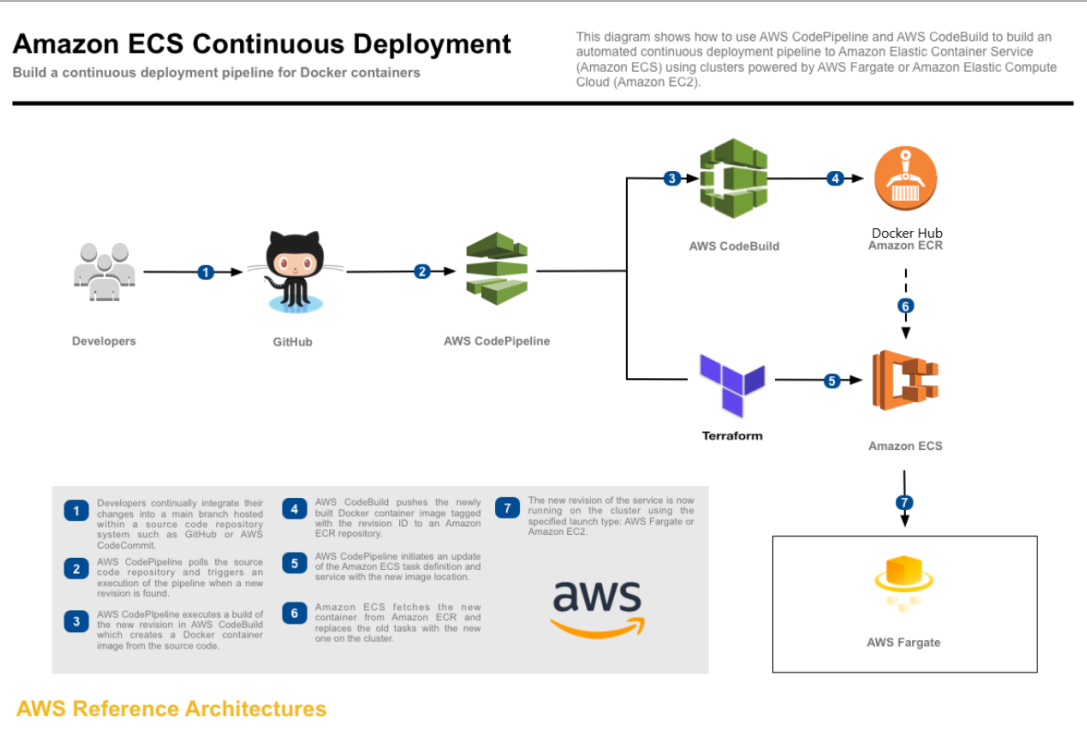
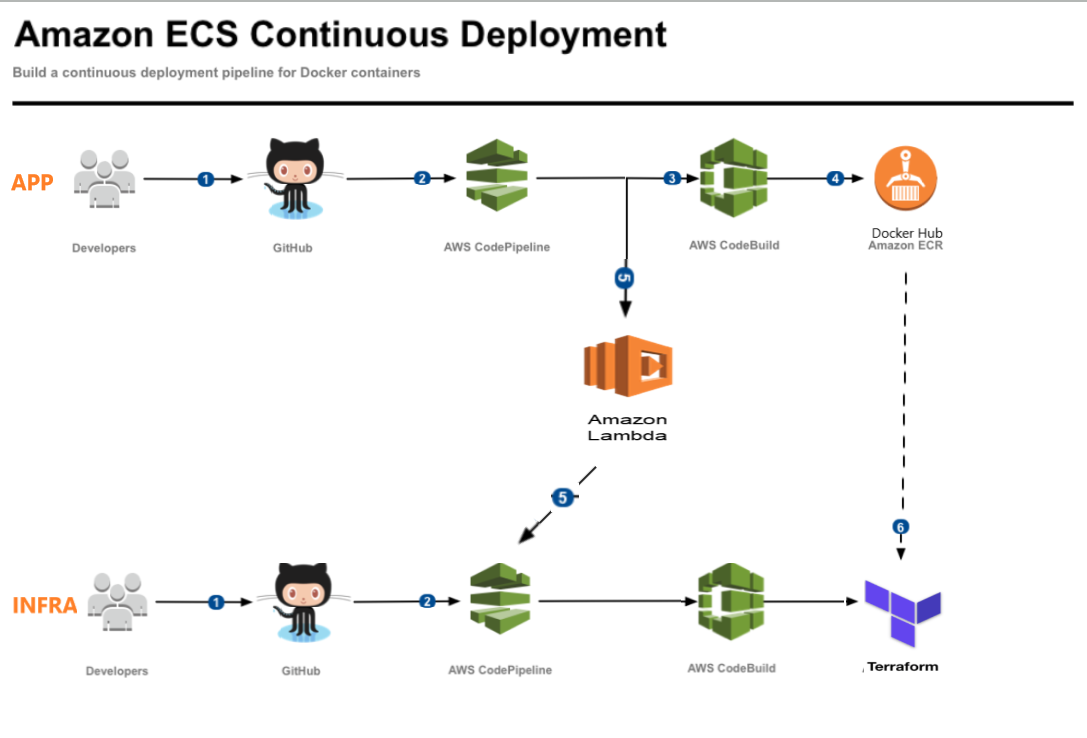
Initial commit

diff --git a/README.md b/README.md
@@ -2,12 +2,12 @@
 The AWS solution is depicted in the diagram below.
 ![Image description](ci-cd.png)
 
-With this project you can create 2 code pipelines:
-1) One of the pipelines can be used to create the necessary infrastructure (VPC, CodeBuild, ECS, Fargate) and do the new application deployments.
-2) The other pipeline can be used to build the application docker image.
+With this project you can create 2 ECS code pipelines:
+1) The INFRA pipeline can be used to create the necessary infrastructure (VPC, security groups, ECS, Fargate) using terraform and do the new application deployments also using terraform.
+2) the APP pipeline can be used to build the application docker image and push it into ECR or Docker Hub.
 
-When the second pipeline has finished with building the application docker image, it should then trigger the first pipeline in order to deploy the new created docker image.
-To trigger a new deployment of an ECS task definition a BUILD_ID is introduced in the task definition task and as an environment variable. This is a workaround because the origional ECS task definition uses the tag "latest" in the image name.
+When the second pipeline has finished with building the application docker image, it should then trigger the first pipeline in order to deploy the newly created docker image.
+To trigger a new deployment of an ECS task definition a BUILD_ID is introduced in the task definition task and as an environment variable. This is a workaround because the origional ECS task definition can use the tag "latest" in the image name.
 
 # Deployment Instructions
 Use the shell scripts provided in the root of the project
